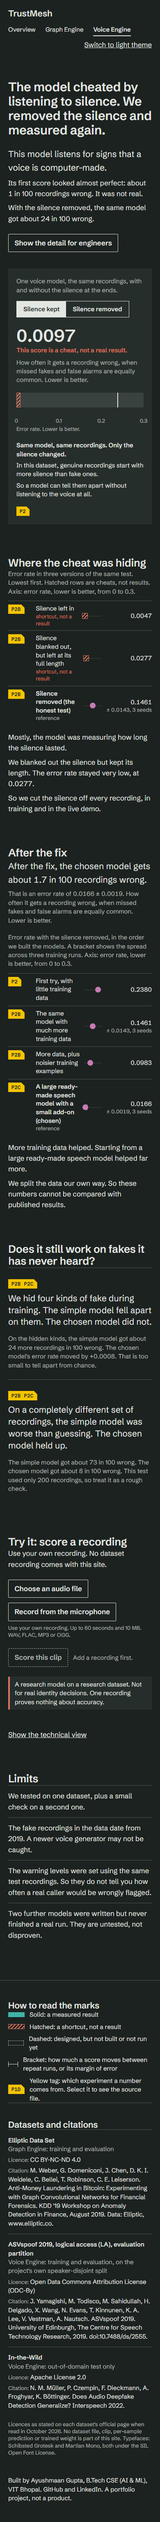
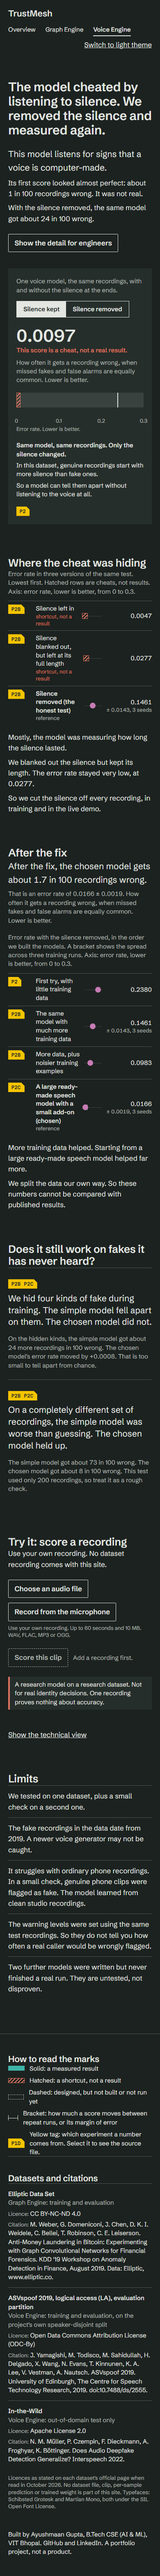
add self-test report

Changed region(s): [[0.0308, 0.0, 0.9538, 0.9964], [0.8615, 0.1557, 0.8923, 0.1868]]

diff --git a/frontend/src/pages/VoicePage.tsx b/frontend/src/pages/VoicePage.tsx
@@ -345,6 +345,10 @@ export function VoicePage() {
           <li className="rule-t pt-3">We tested on one dataset, plus a small check on a second one.</li>
           <li className="rule-t pt-3">The fake recordings in the data date from 2019. A newer voice generator may not be caught.</li>
           <li className="rule-t pt-3">
+            It struggles with ordinary phone recordings. In a small check, genuine phone clips were flagged as fake. The
+            model learned from clean studio recordings.
+          </li>
+          <li className="rule-t pt-3">
             The warning levels were set using the same test recordings. So they do not tell you how often a real caller would be
             wrongly flagged.
           </li>
@@ -358,6 +362,10 @@ export function VoicePage() {
             </li>
             <li>Verdict thresholds are in-sample: set on the same test scores the EER is reported on.</li>
             <li>Single-seed serving: the API loads seed 42 of Model D; the reported figure is a three-seed mean.</li>
+            <li>
+              Codec sensitivity: a small self-test (not an accuracy measurement) saw genuine AAC-compressed recordings flagged
+              as spoof. No codec augmentation was used in training. Details: docs/SELF_TEST_REPORT.md.
+            </li>
             <li>Models E (BiLSTM on frozen tokens) and F (on-the-fly augmentation) never completed a real run: untested, not disproven.</li>
           </ul>
         </ForEngineers>

diff --git a/docs/SELF_TEST_REPORT.md b/docs/SELF_TEST_REPORT.md
@@ -1,0 +1,205 @@
+# TrustMesh self-test report
+
+Run on 2026-10-08 following `PHASE_2_SELF_TEST_RUNBOOK.md` (steps ST1 to ST9) plus one extra
+step (ST10) with the owner's own voice clips. Every number here was measured in this run.
+
+**What this report can and cannot show.** It can show that the running system gives the same results that are
+written in the project log, and that it fails safely. It cannot create new proof of accuracy. The only accuracy
+evidence is still the test data each model was scored on before.
+
+No training was done. Nothing was pushed or deployed. No model code was changed. This report holds totals only:
+no dataset clip, no real transaction with its score, and none of the owner's clips or their scores.
+
+## 1. What we claimed, and what we measured now
+
+| What we claimed | What we measured now | Result | What this proves | What it does not prove |
+|---|---|---|---|---|
+| The transaction model scores 0.7474 on later transactions (one training run). | 0.7474 on 15,329 labelled test transactions. Difference 0.00003. | Pass (allowed difference 0.0005) | The model file we serve is the one that was tested. | That it would score the same on other data. |
+| The voice model's error rate is 0.0166, give or take 0.0019, over three training runs. | The three runs give 0.0194, 0.0152 and 0.0152. Mean 0.0166, spread 0.0019. | Pass (allowed difference 0.0005) | The saved test scores give the numbers in the log. | Anything about recordings outside that test set. |
+| The one voice run we serve (run "42") has an error rate of about 0.0194. | 0.0194. | Pass | The site's "rough single-run figure" is right. | See row 6 for how unsure that figure is. |
+| The live service gives the same transaction scores as the offline model. | 200 random test transactions sent through the service. Biggest difference: 0. Risk level matched every time. | Pass (allowed difference 0.001) | Nothing is lost between the model and the web service. | The same for voice: see the next row. |
+| The live service gives the same voice scores as the saved test scores. | **Not run.** The test recordings are not on this machine. They were not downloaded. | Not run | Nothing. | The voice path (convert, trim, encode, score) is not checked end to end against the saved scores. |
+| Run 42's error rate, with its uncertainty. | 0.0194, with a 95% range of 0.0159 to 0.0214 (1,000 resamples). | Estimate | The true figure for this test set is probably inside that range. | It is still one test set. |
+| The voice warning levels were set on the same test recordings. How do they do on recordings they were not set on? | See section 3. About 1 genuine recording in 100 is flagged "high"; about 99.5 fakes in 100 are flagged. Nearly the same as before. | Estimate | The levels were not fitted to luck. | A real-world false-alarm rate. See section 6. |
+| Bad or strange inputs give a clear error, never a crash or a silent wrong answer. | 12 cases tried. Two problems found and fixed. All 12 pass now. | Pass after fixes | The service refuses or flags bad input. | That it knows speech from noise: it does not. See section 4. |
+| The site can be used with the keyboard alone. | Every button, link and field on all three pages was reached with the Tab key. All three desks were run with the keyboard. | Pass | Keyboard users can do everything. | Screen-reader use: not tested. |
+| The site has no basic accessibility errors. | The axe-core checker found 0 problems in 12 page checks (3 pages, light and dark, plain and engineer view). | Pass | No automatic check fails. | Automatic checks catch only part of real accessibility problems. |
+| The site fits phone, tablet and desktop screens. | 36 checks at 390, 768 and 1440 wide, both themes, both views. No sideways scrolling. | Pass | Layout fits. | How it feels on a real phone. |
+| A fresh copy of the project tells you what files to add. | A fresh copy was started with no data and no internet. Two real problems found and fixed. See section 5. | Pass after fixes | A newcomer now gets a plain list. | A full first start with real downloads: not run. |
+
+## 2. How correct is the project?
+
+**Shown with evidence**
+
+- The transaction numbers in the log are reproduced exactly from the model we serve.
+- The voice numbers in the log are reproduced from the saved test scores.
+- The live service returns the same transaction scores as the offline model.
+- The service fails safely on bad input, after two fixes made during this test.
+- The site works by keyboard, passes the automatic accessibility check, and fits small screens.
+
+**An estimate, not a proof**
+
+- How the voice warning levels behave on recordings they were not set on (section 3).
+- The uncertainty on the one voice run we serve: 0.0159 to 0.0214.
+
+**Not proven**
+
+- **The voice model on ordinary phone recordings.** In a small check with the owner's own clips it failed. See section 6.
+  This is the most important finding of this report.
+- The combined score. It has never been tested for accuracy, and cannot be with this data.
+- The Visual Engine. It has no results.
+- Any real-world deployment.
+- Modern fake-voice tools beyond the 2019 test data.
+- That the live voice path matches the saved scores (the check could not be run).
+
+## 3. The voice warning levels, tested on recordings they were not set on
+
+The levels on the site (high from 0.6578, medium from 0.0239) were set using all the test recordings. That is why
+the site says they do not tell you a real false-alarm rate.
+
+Here we split the saved test scores in half, 200 different ways. Each time we set the levels on one half, using the
+same rule, and measured on the other half. The test set has 2,165 genuine and 8,992 fake recordings.
+
+| | On the recordings the levels were set on | On the other half (average of 200 splits) | Smallest to largest of the 200 |
+|---|---|---|---|
+| Genuine recordings flagged "high" | 1.0 in 100 | 1.1 in 100 | 0.3 to 2.5 in 100 |
+| Genuine recordings flagged "medium" or "high" | 10.0 in 100 | 9.9 in 100 | 7.1 to 13.5 in 100 |
+| Fake recordings flagged "high" | 97.6 in 100 | 97.6 in 100 | 96.8 to 98.4 in 100 |
+| Fake recordings flagged "medium" or "high" | 99.5 in 100 | 99.5 in 100 | 99.3 to 99.7 in 100 |
+
+**What it means.** On this dataset the levels behave almost the same on recordings they were not set on. So they
+were not an accident of the particular recordings.
+
+**What it does not mean.** This is one dataset of studio-style research recordings. It is not a real-world rate.
+Section 6 shows why. The served levels were not changed, and these figures are not on the site.
+
+## 4. Does it fail safely?
+
+| What we sent | What came back | Result |
+|---|---|---|
+| A transaction number that does not exist | "Not found", with the allowed range | Pass |
+| Letters instead of a transaction number | Refused: "should be a valid integer" (a technical message, but clear) | Pass |
+| An empty file | Refused: "the file is empty" | Pass after fix (the old message was a line of program text) |
+| A text file | Refused: "That is not an audio file" | Pass |
+| A 61-second recording | Refused: "the limit is 60 s" | Pass |
+| A file over 10 MB | Refused: "larger than 10 MB" | Pass |
+| A 0.1-second recording | Scored, but marked low confidence with a warning | **Pass after fix.** Before, it got a confident score with no warning |
+| 3 seconds of pure silence | Refused: "the recording is silent" | **Pass after fix.** Before, silence came back as "low risk" with no warning |
+| 3 seconds of loud noise | An ordinary score, no warning | Pass (no crash), with a limit: see below |
+| A 3-second computer tone | An ordinary score ("high risk"), no warning | Pass (no crash), with the same limit |
+| 40 scoring requests sent at once | 30 scored, 10 refused with "too many requests" | Pass |
+| Is the service still running after all that? | Yes | Pass |
+
+**The limit you should know.** The service has no check that a sound is speech. Noise, music or a tone gets a normal
+score, as if it were a voice. Only silence and very short clips are caught.
+
+One more thing we learned: one request after another cannot reach the limit of 30 a minute, because scoring one
+recording takes over a second. The limit only bites when many requests arrive together.
+
+**Changes made to the service because of this step** (the model itself was not touched):
+1. A silent recording is refused instead of scored.
+2. A recording with under 1 second of sound left after trimming is scored but marked low confidence, with a warning the site shows.
+3. An empty or unreadable file gets a plain message.
+
+## 5. Starting from a fresh copy
+
+We cloned the project into an empty folder, copied `.env.example` to `.env`, and started it with no data, no
+weights and no internet.
+
+**Problem 1 (now fixed).** The site would not build at all. Its data files had never been saved in git, because a
+rule meant to hide the big `data/` folder also hid the site's own small `data` folder. Anyone cloning the project
+would have been stuck. The rule now hides only the top-level folder, and the four files are saved.
+
+**Problem 2 (now fixed).** With no dataset, the loader stopped with a long program error, the service never
+started, and the site never opened. Nothing said what to add. Now the loader prints a plain list of the missing
+files, with where each goes and where it comes from. The site opens anyway, and its desks say the scoring service
+did not answer.
+
+The list of files a fresh copy needs is now in the README under "Files you must supply": two graph model files, a
+voice model file and its test scores, the transaction dataset and the speech model (the last two download
+themselves if there is internet).
+
+**What we could not do.** Rebuilding the big service image inside the fresh copy needs about 1 GB of downloads, and
+that timed out on this connection. We used the image already built from the same code, and built only the site
+image from the fresh copy. A complete first start with real downloads was not run.
+
+## 6. A small check with the owner's own voice (ST10)
+
+The owner supplied 3 pairs of clips: a genuine recording of himself, and a cloned-voice copy of the same sentence.
+We converted copies to the format the service needs (the originals were not touched) and scored each one.
+All six clips were between 5 and 11 seconds long. None was under 4 seconds, so none is marked "too short".
+
+| | Count |
+|---|---|
+| Genuine recordings passed as genuine ("low risk") | **0 of 3** |
+| Genuine recordings wrongly flagged as fake | **3 of 3**, all "high risk" |
+| Cloned recordings caught ("high risk") | 3 of 3 |
+
+**Read this plainly.** The model flagged everything, real and fake alike. It did not tell the owner's real voice
+from the clone. Catching 3 of 3 fakes means nothing when it also flags 3 of 3 real recordings.
+
+**This is a small demo check, not an accuracy measurement.** Three pairs from one person on one phone cannot give a
+rate. But it is a clear warning sign, and it agrees with the next test.
+
+**Why this probably happens.** We took 4 genuine recordings from the research dataset, which the model passes
+correctly. We squeezed them the way a phone voice memo is squeezed (AAC, low bitrate) and scored them again. Only 1
+of 4 still passed; 1 became "medium" and 2 became "high". So this kind of compression alone can make a genuine
+voice look fake to this model. Four recordings is a small check too, but both checks point the same way: the model
+learned from clean studio recordings and does not cope with compressed phone audio.
+
+**What it means for the project.** The headline error rate (about 1.7 in 100) is true for the research test set.
+It does not carry over to an ordinary phone recording. The site already says the model is not for real identity
+decisions; this check shows why. For a demo, expect your own voice to be flagged.
+
+The table with each clip's length, score and level is **not in this report and not in the repository**. The owner
+asked that the clips and their scores never be copied into the repository, and this report is part of it. The
+table is in a private file next to the clips: `my_voice_tests\MY_VOICE_RESULTS.md`.
+
+Tool note: the conversion needs a program called ffmpeg, which was not installed on this machine. A copy was
+installed inside the project's own Python folder only (the `imageio-ffmpeg` package in `.venv`). Nothing was
+installed system-wide.
+
+## 7. Clean-ups done
+
+1. **The check script no longer leaves test rows behind.** The scoring service accepts `record=false`.
+   `scripts/verify_serving.py` uses it, and now checks that the number of saved cases is the same before and after.
+   The cases table was backed up first. Test rows left by earlier runs were removed; the 25 seeded rows remain.
+2. **Two graph numbers that disagree (issue #45).** Report only; nothing on the site was changed.
+   - The log and the leaderboard say 0.291 and 0.265. The result file on disk says 0.3279 and 0.2638.
+   - They are two runs of the same notebook. The log's run is also the one the next notebook used for its
+     "does this reproduce?" checks. The file's run is the one whose saved model files are on disk.
+   - The result file carries no run date, and the notebooks hold no saved output, so the second run cannot be dated
+     from the files. Its download time is 2026-09-23.
+   - Which looks canonical: the log's run is the published one; the file's run is the only one that can be checked
+     against files on disk. Both give the same ranking and the same conclusion. This is the owner's call, or one
+     seeded re-run on Kaggle would settle it.
+3. **A cleaned copy of the graph result file.** `artifacts/graph/results_sanitised.json` has the two blocks about one
+   single transaction removed (its number, its predicted probability, its neighbour, and its feature details).
+   Totals are kept. The number check passes on it for 79 of 81 entries. The other 2 are the two facts the site states
+   about that one transaction (its number, and how little the prediction moved), which were in the removed blocks.
+   The file is left uncommitted for the owner to decide.
+4. **Recording mode.** Setting `TRUSTMESH_RECORDING_MODE=1` makes the site hide real transaction numbers, labels,
+   scores and risk levels on the two desks that show transactions, and removes the technical view there. The voice
+   desk is not affected. Checked in the browser: all 24 live values on the transaction desk read "hidden". It is
+   off by default. Not checked: the "shortest path" box in this mode.
+
+## 8. What was not run, and why
+
+- **Live voice scores against the saved test scores (ST2, voice half).** The test recordings are not on this machine
+  and the runbook says not to download them.
+- **A full first start from a fresh copy with real downloads (ST7).** The 1 GB image rebuild timed out; the dataset
+  and speech model were deliberately not downloaded.
+- **Real speech through the microphone button.** The microphone flow was run with a fake device playing a tone. It
+  works, but that is not a person speaking.
+- **Screen readers.** Only the automatic checker and keyboard tests were run.
+- **A real phone.** Small screens were emulated.
+- **The "shortest path" box by keyboard and in recording mode.**
+- **Any re-run of training** to settle the two disagreeing graph numbers. Training is not allowed here.
+- **A larger check of the phone-audio problem.** Section 6 used 3 pairs and 4 dataset recordings. A proper test
+  needs many genuine phone recordings from many people, which this project does not have.
+
+## 9. Where the detail is
+
+- Totals from each step: `data/self_test/*.json` on this machine (not in the repository).
+- The scripts: `scripts/self_test_offline.py`, `self_test_live.py`, `self_test_browser.py`.
+- The owner's clips and their results: `E:\TrustMesh\my_voice_tests\` (private).

diff --git a/docs/PHASE_2_STATUS_REPORT.md b/docs/PHASE_2_STATUS_REPORT.md
@@ -318,3 +318,37 @@ Spec: `PHASE_2_FRONTEND_REVISION_1.md` (parent `docs/` folder). Test counts afte
   re-observed recovering during a restart.
 - The steps in `docs/HOW_TO_TEST_MYSELF.md` that need a person: recording, a text-to-speech clip, a phone.
 - A clean-machine start, any deployment, and everything else listed as untested under WP8 and WP9.
+
+## Self-test — ST1 to ST10 (2026-10-08)
+
+Runbook: `PHASE_2_SELF_TEST_RUNBOOK.md` plus the owner's extra step ST10. Full results in easy language:
+`docs/SELF_TEST_REPORT.md`. Test counts after this run:
+
+- Python unit tests (`pytest tests`): 116 passed
+- Frontend tests (inside `npm run build`): 28 passed
+- `scripts/verify_serving.py` against the Docker stack: 12 of 12 ok
+
+| Step | Result |
+|---|---|
+| ST1 headline numbers | Reproduced. Graph 0.7474 (difference 0.00003). Voice per seed 0.0194, 0.0152, 0.0152; mean 0.0166, spread 0.0019. Tolerance 0.0005. No stop condition. |
+| ST2 live against offline | Graph: 200 test nodes, maximum difference 0. Voice: **not run**, the evaluation audio is not local. |
+| ST3 thresholds out of sample | 200 half-splits: genuine flagged high 1.1 in 100 (in-sample 1.0); fakes flagged medium or high 99.5 in 100 (in-sample 99.5). An estimate from one dataset. Served thresholds unchanged; nothing added to the site. |
+| ST4 seed-42 interval | EER 0.0194, 95% interval 0.0159 to 0.0214 (1,000 stratified resamples). |
+| ST5 fail-safe | 12 cases. Two real faults found and fixed (silence was scored "low risk"; a 0.1 s clip got a confident score). All pass now. Known limit: no check that a sound is speech. |
+| ST6 browser | Every control reached by Tab on all pages; all three desks run by keyboard; reduced motion turns the animation off; axe-core 0 violations in 12 runs; no overflow in 36 combinations; microphone flow works with a fake device (a tone, not speech). |
+| ST7 clean checkout | Two real faults found and fixed: `frontend/src/data/` was never committed (the root `data/` ignore rule hid it), so a fresh clone could not build the site; and missing files produced a traceback with the site never starting. Now a plain list is printed and the site still opens. API image rebuild in the clone timed out (about 1 GB of packages); the existing image built from the same code was used. |
+| ST8 clean-ups | `verify_serving.py` leaves no rows (`record=false`, checked by the script and a unit test); issue #45 investigated, report only; sanitised `results.json` copy written and left uncommitted (79 of 81 entries check against it); recording mode added and tested. |
+| ST9 report | `docs/SELF_TEST_REPORT.md`. |
+| ST10 owner's clips | 3 pairs. **0 of 3 genuine recordings passed; all 3 were flagged high. 3 of 3 clones were flagged high.** The model did not separate them. A 4-clip diagnostic (genuine dataset recordings re-encoded as low-bitrate AAC) moved 3 of 4 out of "low". A small demo check, not an accuracy measurement. Per-clip data is outside the repository. |
+
+**Serving-layer changes made in this run (no model code):** silent audio refused; very short audio flagged
+(`low_confidence`, `warnings`); plain messages for empty and unreadable files; `record=false` on the three scoring
+endpoints; `recording_mode` in `/health`; `serving/preflight.py` and its use in the loader and API; nginx resolves the
+API per request and the frontend no longer waits for the API; the instrument no longer depends on an animation frame.
+**Repository change:** `.gitignore` `data/` became `/data/`; `frontend/src/data/` is now tracked.
+**Installed:** `imageio-ffmpeg` and `axe-core`, both inside the project (`.venv` and `frontend/node_modules`). Nothing system-wide.
+**Created outside the repository:** `E:\TrustMesh\my_voice_tests\_converted_wav\` (WAV copies), `MY_VOICE_RESULTS.md` and
+`my_voice_results.json` next to them. The clean-clone folder and its images were removed after the test.
+
+**Not run:** the voice half of ST2; a first start with real downloads; real speech through the microphone; screen
+readers; a real phone; the shortest-path box by keyboard and in recording mode; anything needing training.

diff --git a/docs/design_decisions.md b/docs/design_decisions.md
@@ -1076,6 +1076,20 @@ are replaced by `PHASE_2_FRONTEND_REVISION_1.md`: plain language by default, exa
 - **`/health` is retried** for about 75 seconds, because a page opened during start-up otherwise stayed on "service not
   running".
 
+### Self-test follow-ups (2026-10-08)
+- **Input guards belong to the service, not the model.** Silence is refused and under one second of sound is flagged.
+  The one-second line is an engineering choice, not a measured threshold. Noise and tones are still scored: detecting
+  "not speech" would need a voice-activity model, which is out of scope.
+- **`record=false`** on the scoring endpoints lets the verify and self-test scripts run without touching the cases table.
+- **Recording mode is a display mask, not a security boundary.** The API still returns real values; the site hides them
+  so a video does not show them. It is for recording on the owner's machine, not for a public deployment.
+- **The site no longer waits for the API.** nginx looks the API up per request, so a missing weight file shows as "the
+  scoring service did not answer" on a working site instead of a stack that never opens.
+- **The owner's voice-clip results stay outside the repository.** The self-test report carries counts only; the per-clip
+  table is next to the clips. The owner asked for both a table in the report and for per-clip data never to enter the
+  repository; the second instruction was followed because the report is committed.
+- **The phone-audio finding went on the voice page as a plain limit, with no number**, because three pairs is not a rate.
+
 ### Dataset content check
 The saved screenshots are the pages' empty states: aggregate results, no scored case, no clip, no label, no weight.
 `scripts/check_no_dataset_outputs.py` passes on them. The transaction row numbers in the example menu are identifiers,

diff --git a/docs/HOW_TO_TEST_MYSELF.md b/docs/HOW_TO_TEST_MYSELF.md
@@ -56,7 +56,11 @@ is the test-set result on the page (the score on later transactions the model ne
    (Or record on your phone, save the file, and use "Choose an audio file".)
 
 **You should see:** a picture of your recording, a score between 0 and 1, and a risk level. For a real voice you
-would **expect the genuine side**: a low score and "low risk". Write down what you got.
+would hope for the genuine side: a low score and "low risk". Write down what you got.
+
+**Known result (self-test, 2026-10-08):** three genuine phone recordings of the owner were all flagged "high risk".
+Compressed phone audio seems to confuse this model. So do not be surprised if your own voice is flagged. See
+`docs/SELF_TEST_REPORT.md`, section 6.
 
 3. Make a fake clip with any free text-to-speech tool. Save it as MP3 or WAV. Upload it and score it. Write down
    what you got.
@@ -105,7 +109,7 @@ has the full graph, and the combined score equals the average of its two parts.
 ```
 .venv\Scripts\python.exe -m pytest tests -q
 ```
-**Pass looks like:** a last line such as `109 passed`.
+**Pass looks like:** a last line such as `116 passed`.
 **A pass means:** the code does what its own small tests expect, on made-up data. It says nothing about accuracy
 on real data.
 
@@ -119,7 +123,7 @@ on real data.
 cd frontend
 npm run build
 ```
-**Pass looks like:** `26 passed` and then `built in ...`.
+**Pass looks like:** `28 passed` and then `built in ...`.
 **A pass means:** the site builds, and no page shows a number that is not in the data file.
 
 Note: `verify_serving.py` uses a few local test recordings in `data\demo_clips`. They are dataset files kept on

diff --git a/README.md b/README.md
@@ -115,6 +115,9 @@ flowchart LR
 - The Visual Engine is designed and coded but has never been run. The fusion layer has an empty slot for it and
   nothing else.
 - Eight local test clips were scored correctly during verification. That is a plumbing check, not an accuracy result.
+- **The voice model does not cope with ordinary phone recordings.** In a small self-test, three genuine phone recordings
+  were all flagged as fake, and genuine research recordings mostly stopped passing once compressed like a voice memo.
+  The reported error rate holds for the research test set only. See `docs/SELF_TEST_REPORT.md`.
 - One dataset per engine. Nothing here says the findings transfer to other transaction graphs or other speech corpora
   beyond the small In-the-Wild check.
 
